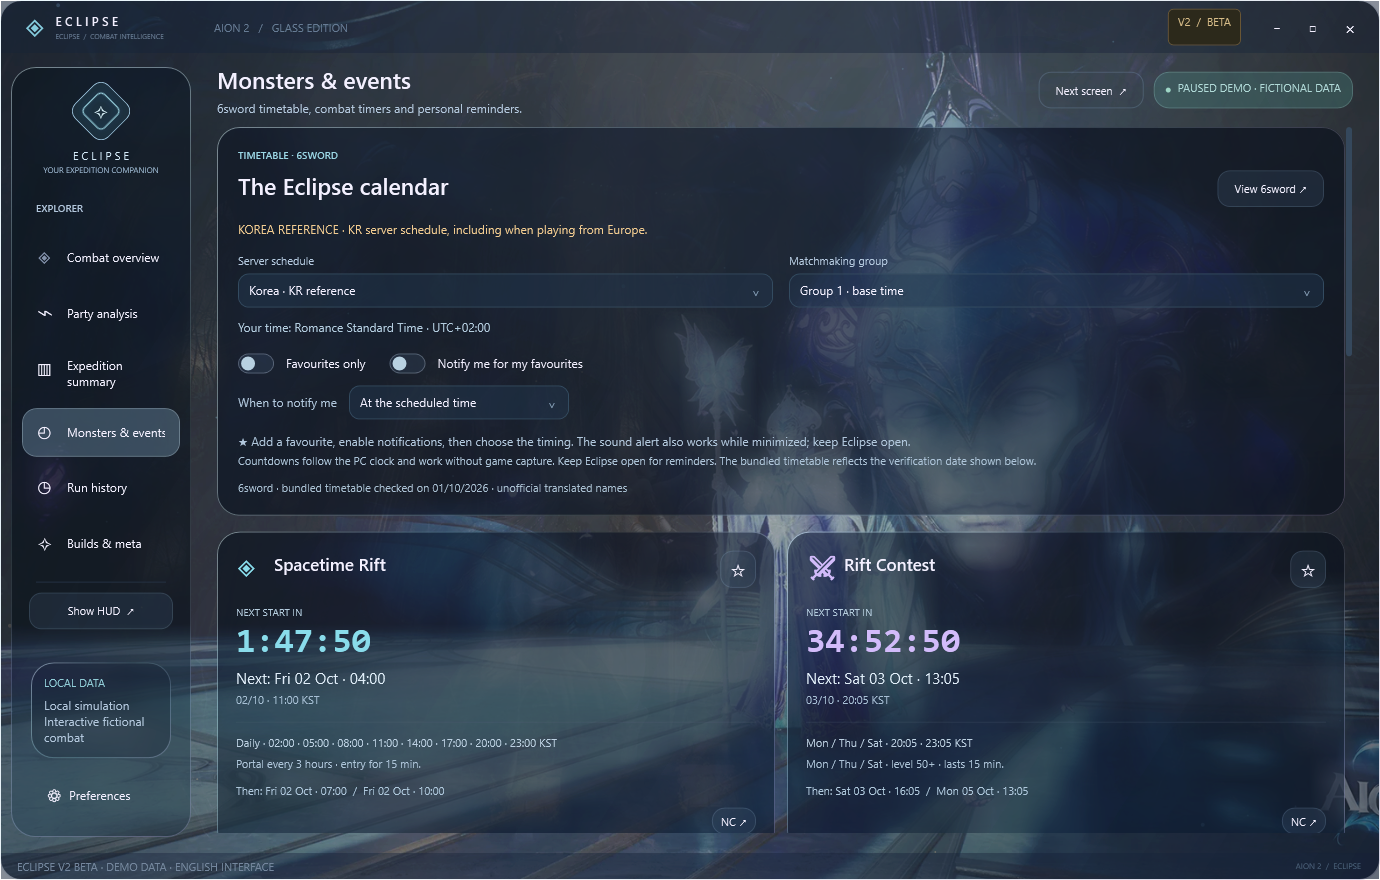
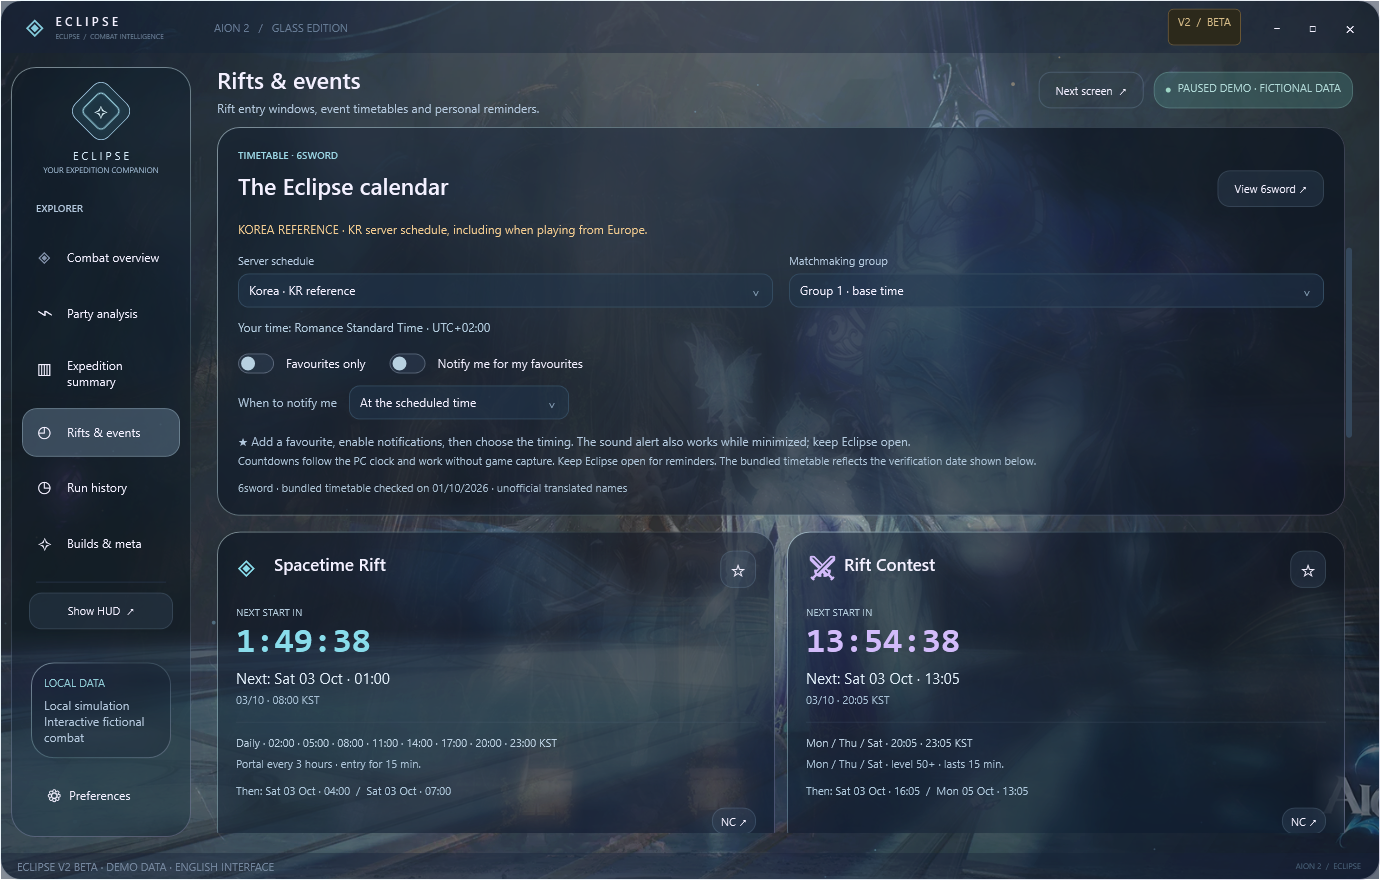
Release Eclipse BETA 2.1.6 with regional Rift timers and favourite alerts

diff --git a/README.md b/README.md
@@ -34,6 +34,8 @@ Eclipse is a free AION 2 damage meter for Windows with a live party overlay and 
 | **A/B build comparisons** | Compare completed runs with matching target, region, declared difficulty and personal class. See observed DPS, critical-hit and back-attack changes. |
 | **Personal build profiles** | Save class skill selections, notes, activity and region. Your run keeps a snapshot of the selected profile for later review. |
 | **Dated class meta and community builds** | Refresh MetaRoad's contextual class rankings and links to community builds. Source, update date and regional uncertainty stay visible. Your own runs also form a separate local class ranking. |
+| **Dedicated Rift timers** | Prominent portal countdown, a separate five-minute entry window and one-hour event timer, next four openings in local time and UTC. Select EU, NA, SA, JP, TW or KR from the dated Talentbuilds community reference. |
+| **Rift reminders** | Favourite the Rift and enable its independent alert at 10 minutes before, 5 minutes before or opening. Region, favourite and timing are saved; reminders continue while minimized. |
 | **Boss and event timers** | A dated Korean-server calendar with server time, local time, upcoming events and matchmaking groups; personal monster reminders and target segments are also available. |
 | **Favourite boss alerts** | Star the event, enable **Notify me** and choose **10 minutes before**, **5 minutes before** or **at the scheduled time**. Reminders work while minimized and avoid duplicate alerts. |
 | **English / Français** | English on first launch; switch client, overlay and setup labels to French. Your language choice is saved. |
@@ -41,6 +43,16 @@ Eclipse is a free AION 2 damage meter for Windows with a live party overlay and 
 | **Exports and diagnostics** | Export run data and a share card; create a restricted diagnostic report for support. Logs and authentication tokens are excluded from that report. |
 | **Guided setup and updates** | Included application runtime, automatic prerequisite check, official Npcap installation with consent when needed, shortcuts and verified in-app update downloads. |
 | **Complete shutdown** | Minimize to keep collecting. Close Eclipse to quit its client, overlay and capture process. |
+
+## Dedicated Rift timers
+
+**Catch the entry window. Keep track of the event after the portal closes.** The Rift panel leads the Rifts & events page, works without game capture and shows your next four openings. Its countdown distinguishes a waiting portal, an open entry window and an ongoing event with entry closed.
+
+![AION 2 Rift timer — Eclipse English Spacetime Rift portal countdown, event duration and regional favourite alerts](docs/images/eclipse-rifts-en.png)
+
+Choose your **game server** in the Rift panel, star it and enable the reminder. Rift alerts have their own timing, separate from boss favourites. The new settings leave existing language and boss reminders intact and do not enable audio automatically.
+
+The bundled [Talentbuilds event timeline](https://talentbuilds.com/aion2/events-timeline) reference was checked on **2 October 2026**. Its EU/NA/SA/JP/KR schedules share one clock; TW is one hour later. The site actually calculates openings in **America/New_York (EST/EDT)**, which Eclipse converts per opening to your local time. It lists a **5-minute entry window** and a **1-hour event**. The separate 6sword KR reference lists 15-minute entry. Both sources remain visible: these are attributed scheduled reminders, not confirmation from game packets or an official global timetable. Check the source and in-game notices if the schedules disagree.
 
 ## Screenshots — English interface
 
@@ -72,7 +84,7 @@ The images below come from the native Windows application. Combat data is simula
 
 ## Install Eclipse
 
-1. Open the **[latest release](https://github.com/Iota-Nine/Aion2-Eclipse/releases/latest)** and download **`Aion2-Eclipse-v2.1.5-win-x64.zip`** under Assets. GitHub's “Source code” archives are not the application.
+1. Open the **[latest release](https://github.com/Iota-Nine/Aion2-Eclipse/releases/latest)** and download **`Aion2-Eclipse-v2.1.6-win-x64.zip`** under Assets. GitHub's “Source code” archives are not the application.
 2. **Extract the entire ZIP** to a folder on your PC.
 3. Run **`Eclipse.Setup.exe`**. Choose your language. If Npcap is missing, setup downloads its official installer, asks for Windows permission and lets you accept the installation wizard. Eclipse continues when it finishes.
 4. Open AION 2. If you were already in the world, teleport or change channels once to receive your character identity. Join or refresh your party after starting Eclipse.
@@ -80,9 +92,9 @@ The images below come from the native Windows application. Combat data is simula
 
 Setup creates Desktop and Start menu shortcuts and installs Eclipse for your Windows account. The application runtime is included; no separate .NET installation is required. Internet is needed for downloads, external sources and updates. The download targets **Windows x64**; native interface checks were performed on Windows 11.
 
-## Upgrade from V1
+## Upgrade from V1 or an earlier V2
 
-**Click UPDATE in V1 to install V2 BETA in the same folder.** V2 uses the same executable name and public update channel. Existing `data` and HUD preferences are preserved; V2 creates its own client history there. The updater verifies the release and checks the installed executable version before restarting it.
+**Click UPDATE in Eclipse to install the latest V2 BETA in the same folder.** V2 uses the same executable name and public update channel. Existing `data` and HUD preferences are preserved; V2 creates its own client history there. The updater verifies the release and checks the installed executable version before restarting it.
 
 If an older updater keeps reopening V1, download the latest ZIP, extract it fully and run **`Eclipse.Setup.exe`** once. V1 is superseded; historical release pages remain available. An already downloaded V1 executable does not disable itself remotely.
 

diff --git a/docs/README.fr.md b/docs/README.fr.md
@@ -28,6 +28,8 @@ Eclipse réunit un compteur de dégâts AION 2, un HUD et un grand client Window
 | **Comparaison A/B** | Compare des runs terminés avec cible, région, difficulté déclarée et classe personnelle correspondantes. Observe les variations de DPS, critiques et attaques de dos. |
 | **Profils de build** | Sélection des compétences, notes, activité et région. Chaque run conserve une copie du profil utilisé. |
 | **Méta et builds communautaires** | Actualisation des classements contextuels et liens MetaRoad, avec date, source et incertitude régionale visibles. Classement local séparé d'après tes propres runs. |
+| **Timer des failles** | Panneau prioritaire : prochaine ouverture, entrée de 5 min et événement de 1 h séparés, quatre ouvertures suivantes en heure locale et UTC. Référence Talentbuilds pour EU, NA, SA, JP, TW et KR. |
+| **Alertes de faille** | Favori + rappel indépendant à 10 min, 5 min ou à l’ouverture. Serveur et réglages mémorisés ; rappel actif en fenêtre réduite. |
 | **Chronos de boss et d'événements** | Calendrier daté des serveurs coréens, heure du serveur et heure locale, groupes de matchmaking, segments de cibles et rappels personnels de monstres. |
 | **Alertes de boss favoris** | Étoile + **Notify me**, puis choix entre **10 min avant**, **5 min avant** et **à l'heure prévue**. Fonctionne en fenêtre réduite, sans doublons. |
 | **Anglais / Français** | Anglais à la première ouverture, français dans les réglages du client, du HUD et du setup. Choix mémorisé. |
@@ -35,6 +37,14 @@ Eclipse réunit un compteur de dégâts AION 2, un HUD et un grand client Window
 | **Exports et diagnostic** | Données du run, carte de partage et rapport de diagnostic limité, sans journaux ni jeton d'authentification. |
 | **Setup et mises à jour** | Runtime inclus, prérequis vérifiés, installation officielle Npcap avec consentement si nécessaire, raccourcis et téléchargement UPDATE vérifié. |
 | **Fermeture complète** | Réduire conserve la capture. La croix ferme le client, le HUD et le processus de capture. |
+
+## Le nouveau timer des failles
+
+Le panneau de la faille apparaît en premier dans **Rifts & events**. Il distingue l'ouverture du portail, la fermeture de l'entrée et la fin de l'événement. Choisis ton serveur de jeu, ajoute la faille aux favoris et active son rappel ; le délai est indépendant des boss et fonctionne sans capture du jeu. Aucun son n'est activé automatiquement.
+
+![Timer de faille AION 2 — capture anglaise du panneau Eclipse, portail et événement séparés](images/eclipse-rifts-en.png)
+
+Référence communautaire [Talentbuilds](https://talentbuilds.com/aion2/events-timeline), vérifiée le **2 octobre 2026** : EU/NA/SA/JP/KR partagent les horaires de cette source, TW est une heure plus tard. Son calcul suit New York (EST/EDT) ; Eclipse convertit chaque ouverture dans ton fuseau. Talentbuilds indique 5 min d'entrée et 1 h d'événement, alors que la référence KR de 6sword indique 15 min d'entrée. Les sources restent distinctes et visibles. Ce sont des rappels de calendrier, pas une détection réelle du portail ni des horaires globaux officiellement confirmés. Consulte la source et les annonces du jeu en cas d'écart.
 
 ## Captures — interface anglaise
 
@@ -54,7 +64,7 @@ Les images viennent du client Windows natif et utilisent des données de démons
 
 ## Installation
 
-1. Dans la **[dernière release](https://github.com/Iota-Nine/Aion2-Eclipse/releases/latest)**, télécharge **`Aion2-Eclipse-v2.1.5-win-x64.zip`** dans Assets. Les archives « Source code » de GitHub ne contiennent pas l'application.
+1. Dans la **[dernière release](https://github.com/Iota-Nine/Aion2-Eclipse/releases/latest)**, télécharge **`Aion2-Eclipse-v2.1.6-win-x64.zip`** dans Assets. Les archives « Source code » de GitHub ne contiennent pas l'application.
 2. **Extrais tout le ZIP** dans un dossier de ton PC.
 3. Lance **`Eclipse.Setup.exe`** et choisis la langue. Si Npcap manque, l'assistant télécharge son installateur officiel. Accepte la permission Windows et termine l'assistant Npcap ; Eclipse continue automatiquement.
 4. Lance AION 2. Si tu étais déjà en jeu, téléporte-toi ou change de canal une fois. Rejoins ou actualise le groupe après avoir ouvert Eclipse.
@@ -62,7 +72,7 @@ Les images viennent du client Windows natif et utilisent des données de démons
 
 Le setup installe Eclipse pour ton compte Windows et crée les raccourcis Bureau et menu Démarrer. Le runtime est inclus : aucune installation .NET séparée. Internet est nécessaire pour les téléchargements, les sources externes et les mises à jour. Le paquet cible **Windows x64** ; l'interface native a été vérifiée sous Windows 11.
 
-## Mise à jour depuis la V1
+## Mise à jour depuis la V1 ou une V2 précédente
 
 **UPDATE installe la V2 BETA dans le même dossier.** Le nom de l'exécutable et le canal public restent compatibles. Le dossier `data` et les réglages du HUD sont conservés ; le client V2 y ajoute son historique. L'updater vérifie la release et la version réellement installée avant de relancer Eclipse.
 

diff --git a/CHANGELOG.md b/CHANGELOG.md
@@ -1,5 +1,16 @@
 # Eclipse release notes
 
+## v2.1.6 — Rift entry and event timers
+
+- Dedicated Rift panel at the top of Rifts & events, with waiting, scheduled portal-open and event-active/entry-closed phases.
+- Separate five-minute entry and one-hour event clocks, progress bars and next four local/UTC openings.
+- Dated Talentbuilds regional reference for EU, NA, SA, JP, TW and KR, using the site’s America/New_York clock including DST and the TW one-hour difference.
+- Independent favourite reminders at 10 minutes before, 5 minutes before or opening; saved region and timing, minimized operation, restart deduplication and no missed-alert replay after sleep.
+- English default and translated French controls. Existing boss schedules, language choices and preferences are retained; new Rift alerts start disabled.
+- Source and verification date visible. Talentbuilds’s five-minute entry differs from the separate 6sword KR reference; neither source is presented as live portal detection or a confirmed global schedule.
+
+Validation: 432 logic checks, native Rift phases and FR/EN/regional control checks, favourite audio timings and minimized notification checks. Actual ZIP migration verified from copied V1 and 2.1.5 installations with existing data preserved.
+
 ## v2.1.5 — Eclipse V2 BETA, the main update
 
 V2 replaces V1 on the official download and update channel. This is the full Glass client release for existing Eclipse users and new installations.
